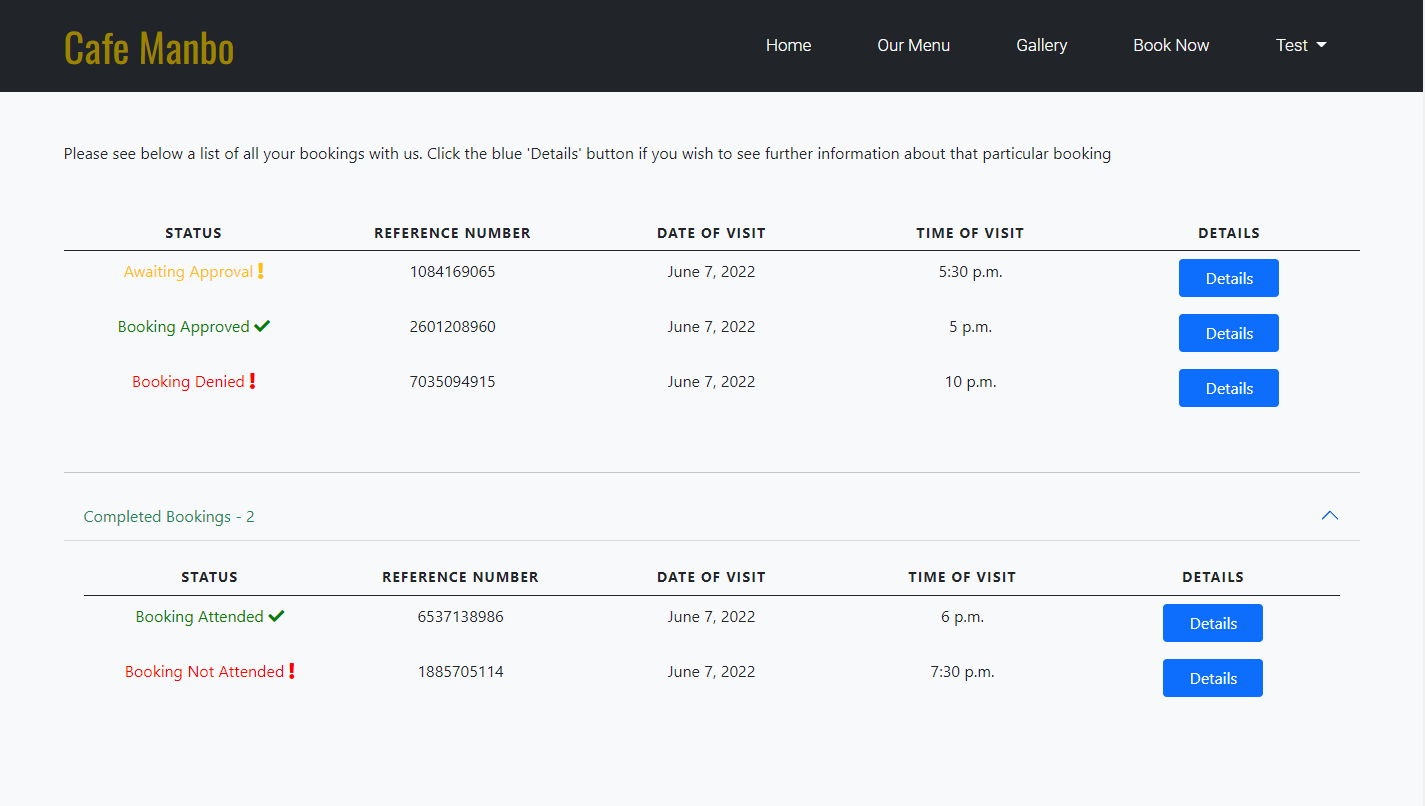
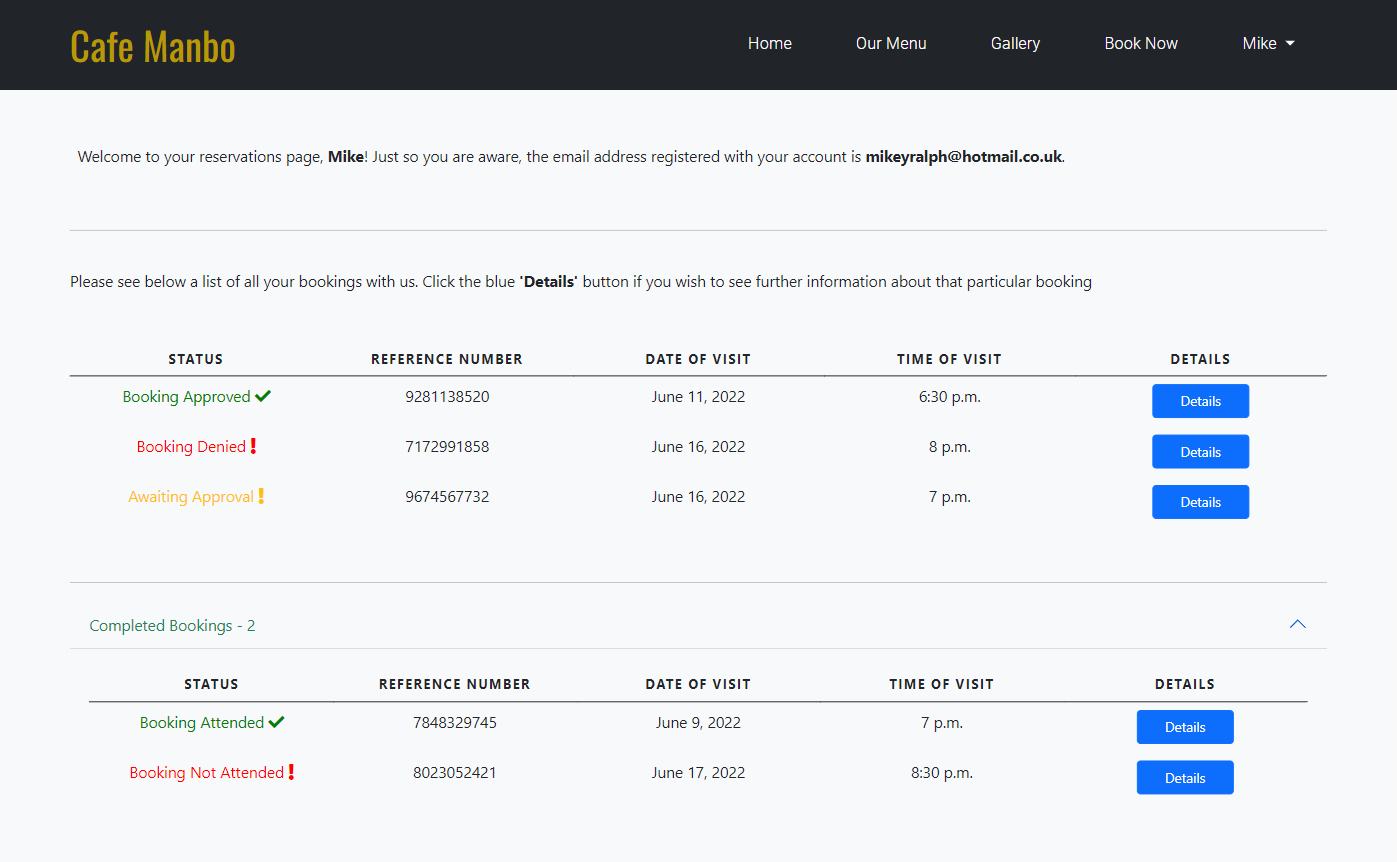
Update readme.md images for my reservations section

diff --git a/README.md b/README.md
@@ -257,7 +257,7 @@ As mentioned above, the website for Cafe Manbo has been designed to be a fully e
 
 <details><summary><b>Gallery Image</b></summary>
 
-![Gallery Image](static/images/readme-images/gallery-image.jpg)
+![Gallery Image](static/images/readme-images/gallery-image.png)
 </details><br />
 
   * ### Book Now
